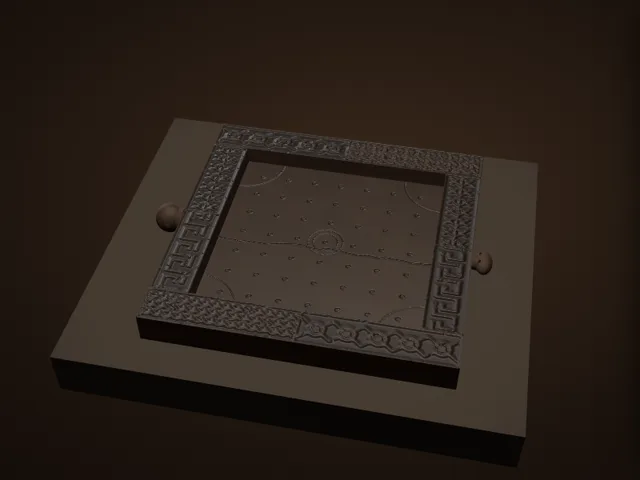
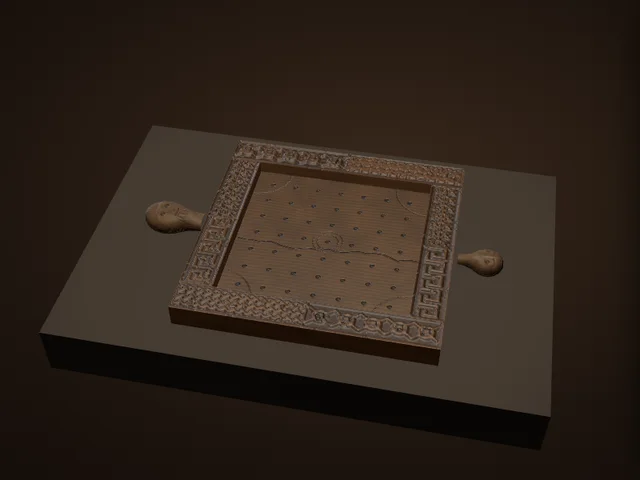
博物館：セネト盤の獅子脚に指と象牙の爪、スマホのテクスチャ上限、バリンダリーのサムネ・版数
Claude-Session: https://claude.ai/code/session_01EiWRAZTxRF5M5nk5vdR2jJ

Changed region(s): [[0.0625, 0.25, 0.875, 0.9375]]

diff --git a/atlas/museum/gallery.js b/atlas/museum/gallery.js
@@ -10,7 +10,7 @@
    (a turn, a zoom, the slow turntable) and never while the window is in the background. */
 (function () {
   'use strict';
-  const V = 39;
+  const V = 40;
   /* ---------- the pieces: id, the game it belongs to, its scale (cm per model unit), the camera's start, the details ----------
      lock: { game, ach } → open after that many achievements of the game. src: the files the piece needs (besides ex/<id>.js) */
   const EX = [
@@ -128,9 +128,12 @@
     const scene = new TT.Scene(), env = envMap(R, TT); scene.environment = env.texture;
     let obj; try { obj = B.build(TT, X, kit); } catch (err) { console.warn('[gallery]', err); ov.querySelector('.exload').textContent = ui(lang, 'fail'); R.dispose(); return; }
     const aniso = R.capabilities.getMaxAnisotropy();
+    // on a phone no texture is kept longer than 1536 px (a 2048² picture is 22 MB of video memory with its mip-maps; the screen cannot show the difference)
+    const small = t => { const im = t.image, cap = 1536; if (!phone() || !im || !im.getContext || Math.max(im.width, im.height) <= cap) return; const k = cap / Math.max(im.width, im.height), c = document.createElement('canvas');
+      c.width = Math.max(1, Math.round(im.width * k)); c.height = Math.max(1, Math.round(im.height * k)); const g = c.getContext('2d'); g.imageSmoothingQuality = 'high'; g.drawImage(im, 0, 0, c.width, c.height); t.image = c; t.needsUpdate = true; };
     obj.traverse(o => { if (!o.isMesh) return; o.castShadow = true; o.receiveShadow = true;
       // every texture mip-mapped and filtered at the device's best anisotropy (fine inlay lines shimmered at a distance on phones)
-      (Array.isArray(o.material) ? o.material : [o.material]).forEach(m => { for (const k in m) { const t = m[k]; if (t && t.isTexture) { t.anisotropy = aniso; t.generateMipmaps = true; t.minFilter = TT.LinearMipmapLinearFilter; } } }); });
+      (Array.isArray(o.material) ? o.material : [o.material]).forEach(m => { for (const k in m) { const t = m[k]; if (t && t.isTexture) { t.anisotropy = aniso; t.generateMipmaps = true; t.minFilter = TT.LinearMipmapLinearFilter; small(t); } } }); });
     // sit it on a plinth: the plinth fits the piece's footprint with a margin
     const bb = new TT.Box3().setFromObject(obj), sz = bb.getSize(new TT.Vector3()), cen = bb.getCenter(new TT.Vector3());
     obj.position.x -= cen.x; obj.position.z -= cen.z; obj.position.y -= bb.min.y;

diff --git a/atlas/museum/ex/senet.js b/atlas/museum/ex/senet.js
@@ -106,13 +106,16 @@
       sh.quadraticCurveTo(.35, 3.4, .55, 4.8); sh.quadraticCurveTo(.75, 6.6, .7, 8.2); sh.quadraticCurveTo(.68, 9.4, .85, 10.3); sh.lineTo(-.85, 10.3);
       const legG = new TT.ExtrudeGeometry(sh, { depth: 1.15, bevelEnabled: true, bevelThickness: .24, bevelSize: .22, bevelSegments: 4, curveSegments: 10 });
       legG.translate(0, 0, -.575);
-      const clawG = new TT.ConeGeometry(.12, .42, 10); clawG.rotateZ(-Math.PI / 2);
+      const clawG = new TT.ConeGeometry(.1, .4, 8); clawG.rotateZ(-Math.PI / 2);
+      const toeG = new TT.SphereGeometry(.2, 12, 8); toeG.scale(2.6, 2.9, .84);
       const drumG = new TT.LatheGeometry([[0, -.9], [1.15, -.9], [1.2, -.75], [1.05, -.6], [1.18, -.45], [1.05, -.3], [1.18, -.15], [1.05, 0], [1.18, .15], [1.05, .3], [1.18, .45], [1.05, .6], [1.2, .75], [1.15, .9], [0, .9]].map(([x, y]) => new TT.Vector2(x, y)), 28);
       const LX = RL / 2 - 1.6, LZ = RW / 2 - .9, LS = (20.2 - RH - 3.3) / 10.3;   // (the legs stretched to the stand's height)
       for (const sx of [1, -1]) for (const sz of [1, -1]) {
         const x = sx * LX, z = sz * LZ;
         const leg = new TT.Mesh(legG, ebony); leg.position.set(x, 3.3, z); leg.scale.y = LS; leg.scale.x = sx; leg.scale.z = .85; G.add(leg);   // the paws face outwards, to the ends
-        for (let k = -1; k <= 1; k++) { const c = new TT.Mesh(clawG, ivory); c.position.set(x + sx * 1.62, 3.3 + .25, z + k * .3); c.scale.x = sx; G.add(c); }
+        // the lion's paw: four rounded toes side by side, an ivory claw at the tip of each (Carter: "ivory claws"; the photographs)
+        for (let k = -1.5; k <= 1.5; k++) { const t = new TT.Mesh(toeG, ebony); t.position.set(x + sx * 1.62, 3.3 + .74, z + k * .31); t.rotation.z = -sx * .35; G.add(t);
+          const c = new TT.Mesh(clawG, ivory); c.position.set(x + sx * 2.1, 3.3 + .3, z + k * .31); c.scale.x = sx; c.rotation.z = -sx * .5; G.add(c); }
         const dr = new TT.Mesh(drumG, gold); dr.position.set(x + sx * .4, 1.45 + .9, z); G.add(dr);   // a gold drum, ribbed, under each paw
       }
       // runners: long bars whose ends sweep up in a curl (the photographs), joined by a cross-bar near each end

diff --git a/atlas/museum.js b/atlas/museum.js
@@ -32,7 +32,7 @@
   const ROOMS = [
     { id: 'map', ready: () => !!window.AtlasMap, render: (el, c) => AtlasMap.render(el, c) },
     { id: 'tree', src: ['museum/tree.js?v=3'], ready: () => !!window.AtlasTree, render: (el, c) => AtlasTree.render(el, c) },
-    { id: 'gallery', src: ['museum/gallery.js?v=39'], ready: () => !!window.AtlasGallery, render: (el, c) => AtlasGallery.render(el, c) },
+    { id: 'gallery', src: ['museum/gallery.js?v=40'], ready: () => !!window.AtlasGallery, render: (el, c) => AtlasGallery.render(el, c) },
   ];
   const KEY = 'atlas-museum-room';
   const esc = s => String(s == null ? '' : s).replace(/[&<>"]/g, c => ({ '&': '&amp;', '<': '&lt;', '>': '&gt;', '"': '&quot;' }[c]));

diff --git a/atlas/index.html b/atlas/index.html
@@ -2559,7 +2559,7 @@ window.AtlasRgdTimer = function (btn, ms, alive) {
 <link rel="stylesheet" href="worldmap.css?v=19">
 <link rel="stylesheet" href="museum.css?v=4">
 <script src="worldmap.js?v=40"></script>
-<script src="museum.js?v=40"></script>
+<script src="museum.js?v=41"></script>
 <script src="npc/npc.js?v=46"></script>
 <script src="avtalk.js?v=4"></script>
 <script>/* Page states as classes on <html> (2026-11-21) — html.cov-on: the 3D view / Historia / a sheet / a level sheet is open;

diff --git a/claude/museum-spec.md b/claude/museum-spec.md
@@ -60,6 +60,7 @@
   - **彫像は `kit.relief`（2026-11-21）**：一塊から彫った像（象牙・木・石）は、球や円柱の寄せ集めにしない（人形のように見える）。表と裏それぞれの「高さの絵」（cm 単位、白＝出る・黒＝彫り込む）と輪郭の絵から、格子のメッシュ（大きな形）＋バンプ（細かい彫り）＋彫り込みに汚れのたまった色を作る（`atlas/museum/gallery.js` の `kit.relief`、手本 `ex/lewis.js`）。1体 6〜9千三角形。格子より細い部品（槍など）は別の形状で足す。
   - **照明と白飛び（2026-11-21）**：平らでつやのある盤は、平行光がカメラの反対側にあると天面全体が白く光る（遠目のちらつき・白飛びの主因だった）。ビューアの光は、主光＝ほぼ真上（約82°）のスポット、リム光と補助光＝テーブルとほぼ水平（天面には当てない）、部屋の映り込みは半分（`environmentIntensity .5`）、そのぶん半球光を上げる。確認は `AtlasGallery._v()`（開いているビューア）を使い、ヨー12方向×ピッチ5段で画面中央の明るさを測る（急に明るくなる角度がないこと）。
   - **細い明るい形状は作らない**：幅数ミリの象牙の線などを箱で置くと遠目でちらつく。テクスチャに描く（ミップマップで平均される）。ちらつきの測り方：スマホ相当の画面でいちばん遠くまで引き、0.035°ずつ回した3枚の差（ウルの盤が基準：差が30を超える画素 0.00%）。
+  - **スマホのテクスチャ上限**：スマホ（幅820px未満）では、読み込み時に長辺1536pxを超えるテクスチャを1536pxに縮める（gallery.js の small()。2048²は1枚22MB）。
   - **同じ平面に面を重ねない／透かしはアルファ・トゥ・カバレッジ**：隣り合う部品の面が同じ平面にあると遠目でちらつく（双六局の隅の脚。片方を少し短くする）。alphaTest の透かし（ダイスタワー）は `alphaToCoverage: true` を付けて縁を滑らかにする。
   - **重さの基準**：三角形は展示1点 8万以下（`atlas/tools/exrender.html` が `window.stats` に三角形数・メッシュ数・テクスチャの枚数とメモリを出す）。
   - スマホで遠目に見たときのちらつき・白飛びがないこと（カメラの near/far を狭く、テクスチャはミップマップと異方性フィルタ、トーンマップの露出 .85、重なる面は polygonOffset）。
